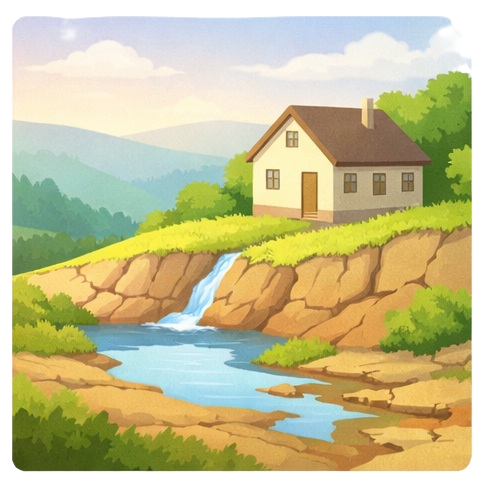
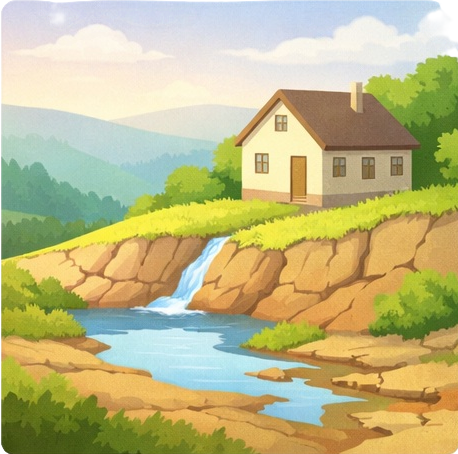
fix images

diff --git a/components/SolutionsMistakesSection.tsx b/components/SolutionsMistakesSection.tsx
@@ -95,7 +95,7 @@ export function SolutionsMistakesSection() {
                   <img
                     src={imageSrc}
                     alt=""
-                    className="block h-full w-full object-cover"
+                    className="block h-full w-full bg-[#ffffff] object-cover object-[50%_12%]"
                   />
                 </div>
                 <p className="mt-3 text-xs font-medium leading-tight text-slate-500 sm:text-sm whitespace-nowrap">
